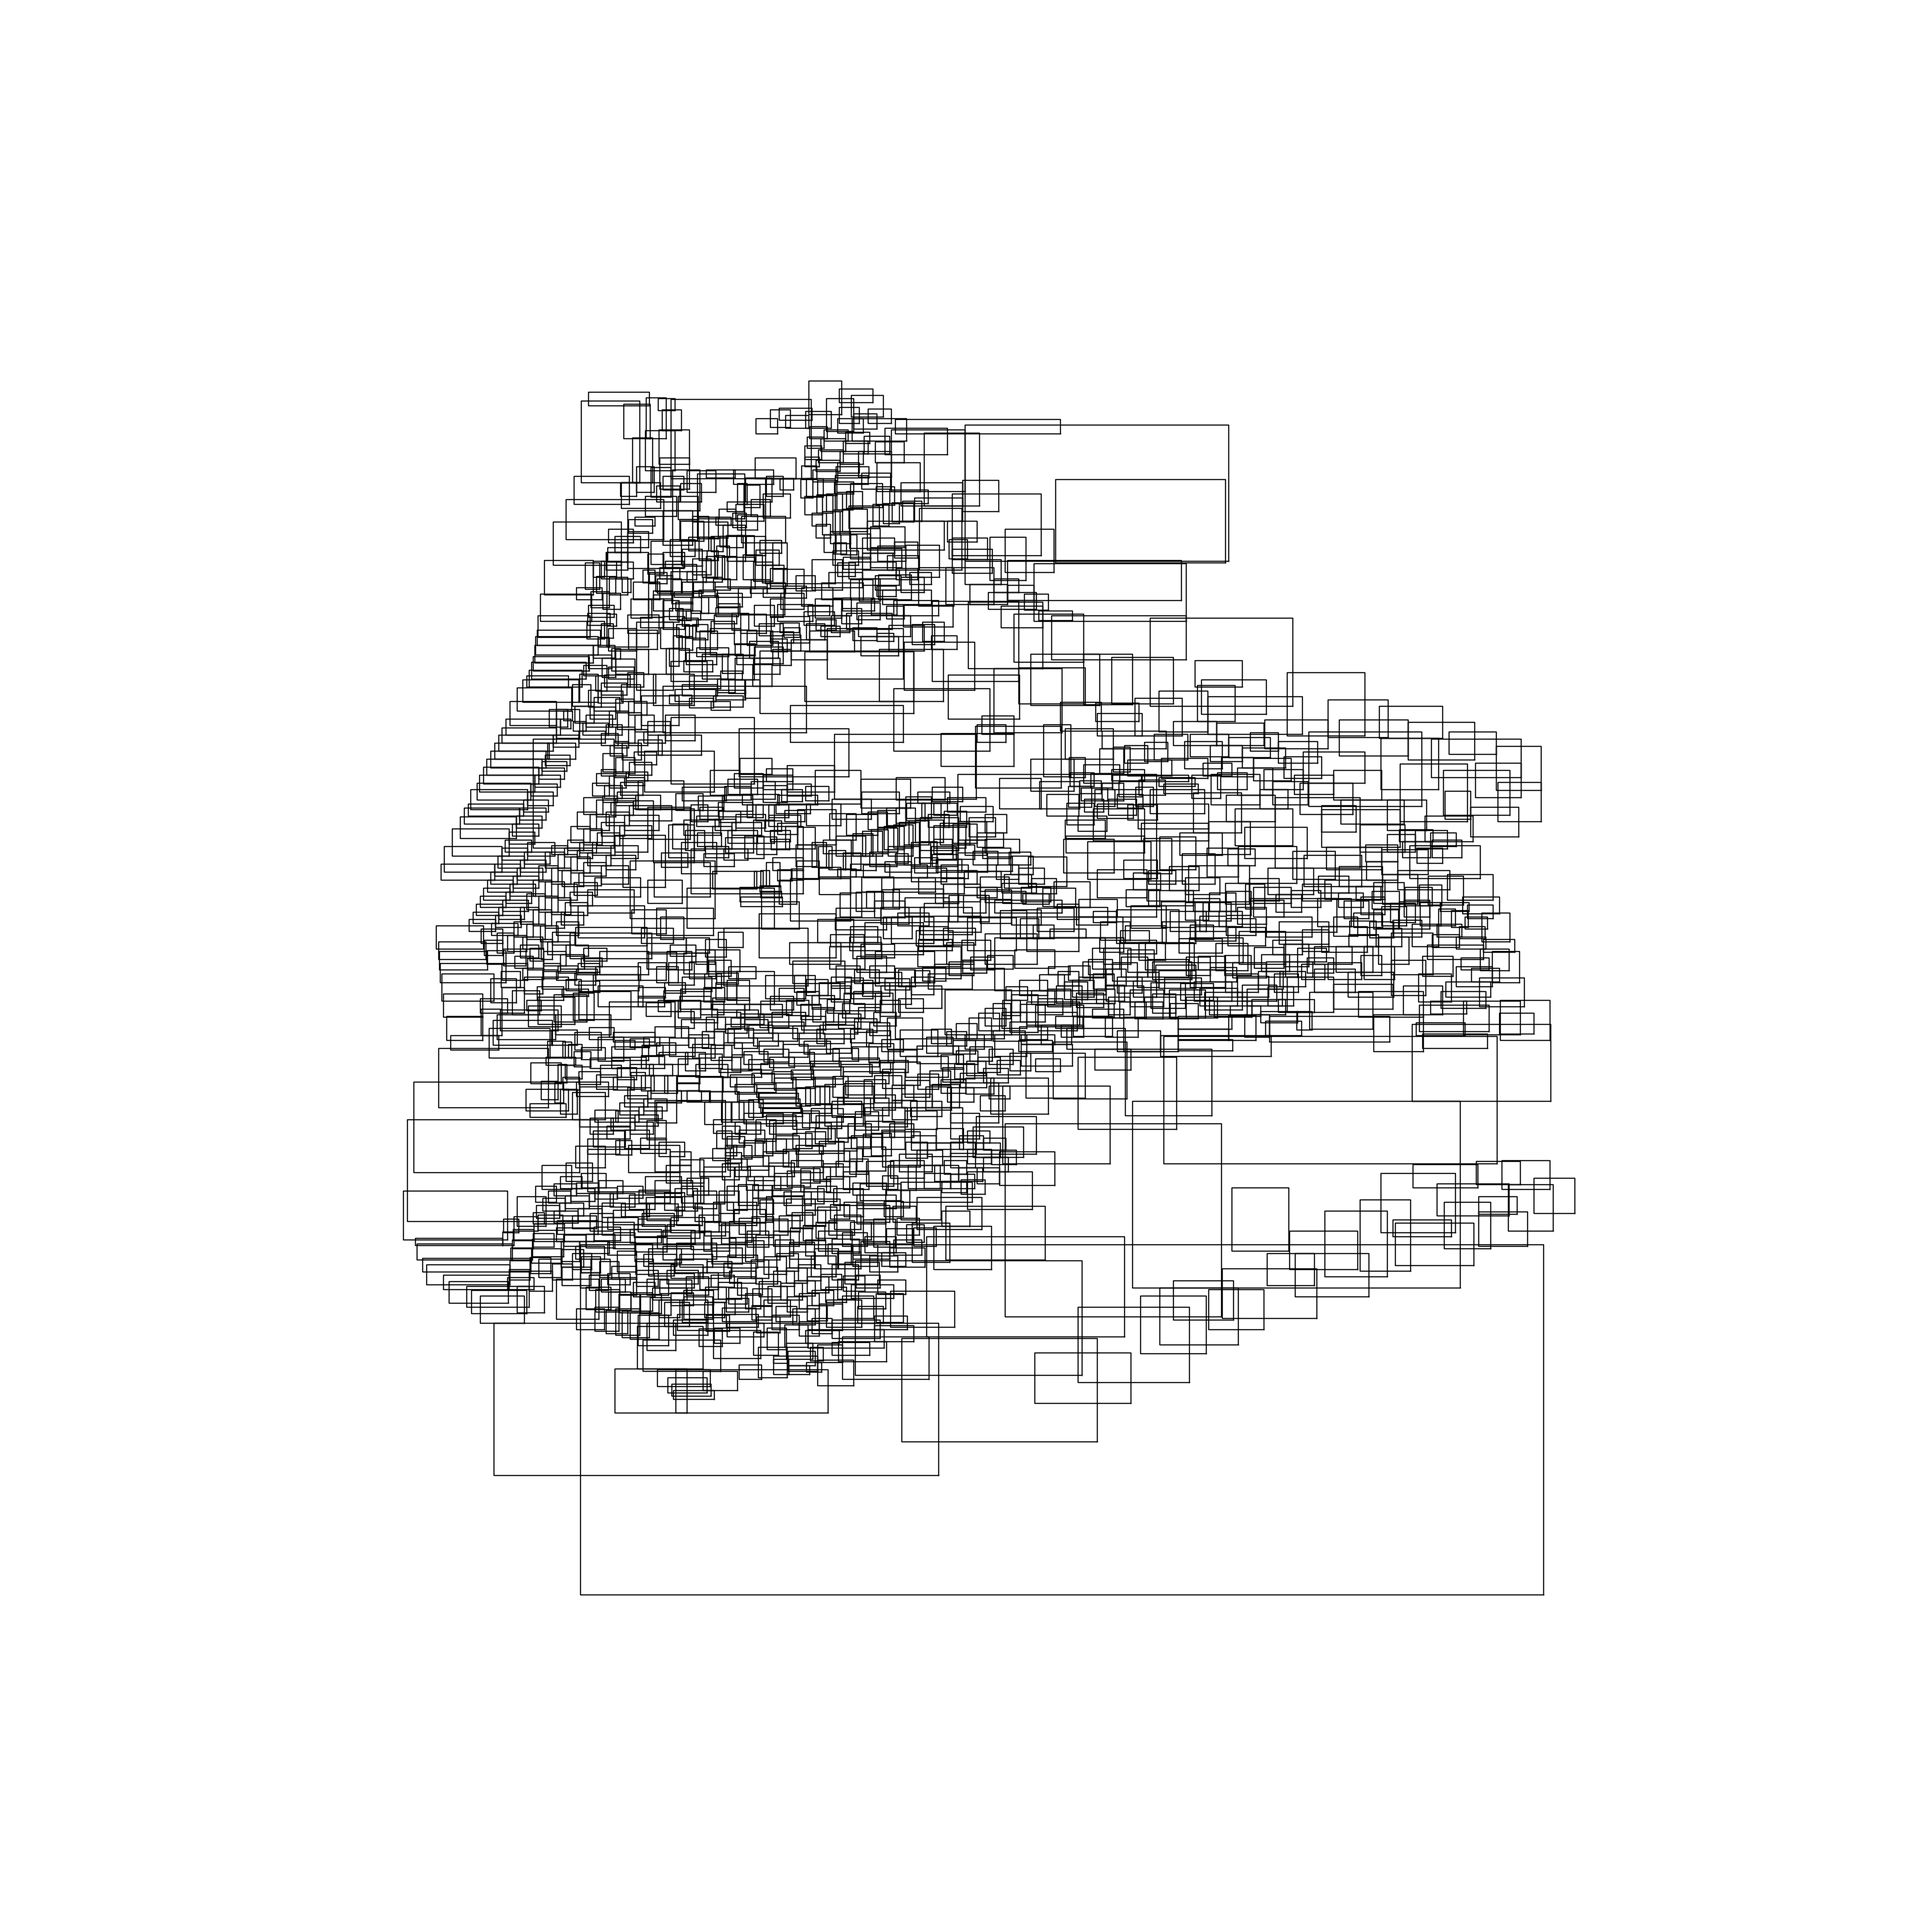
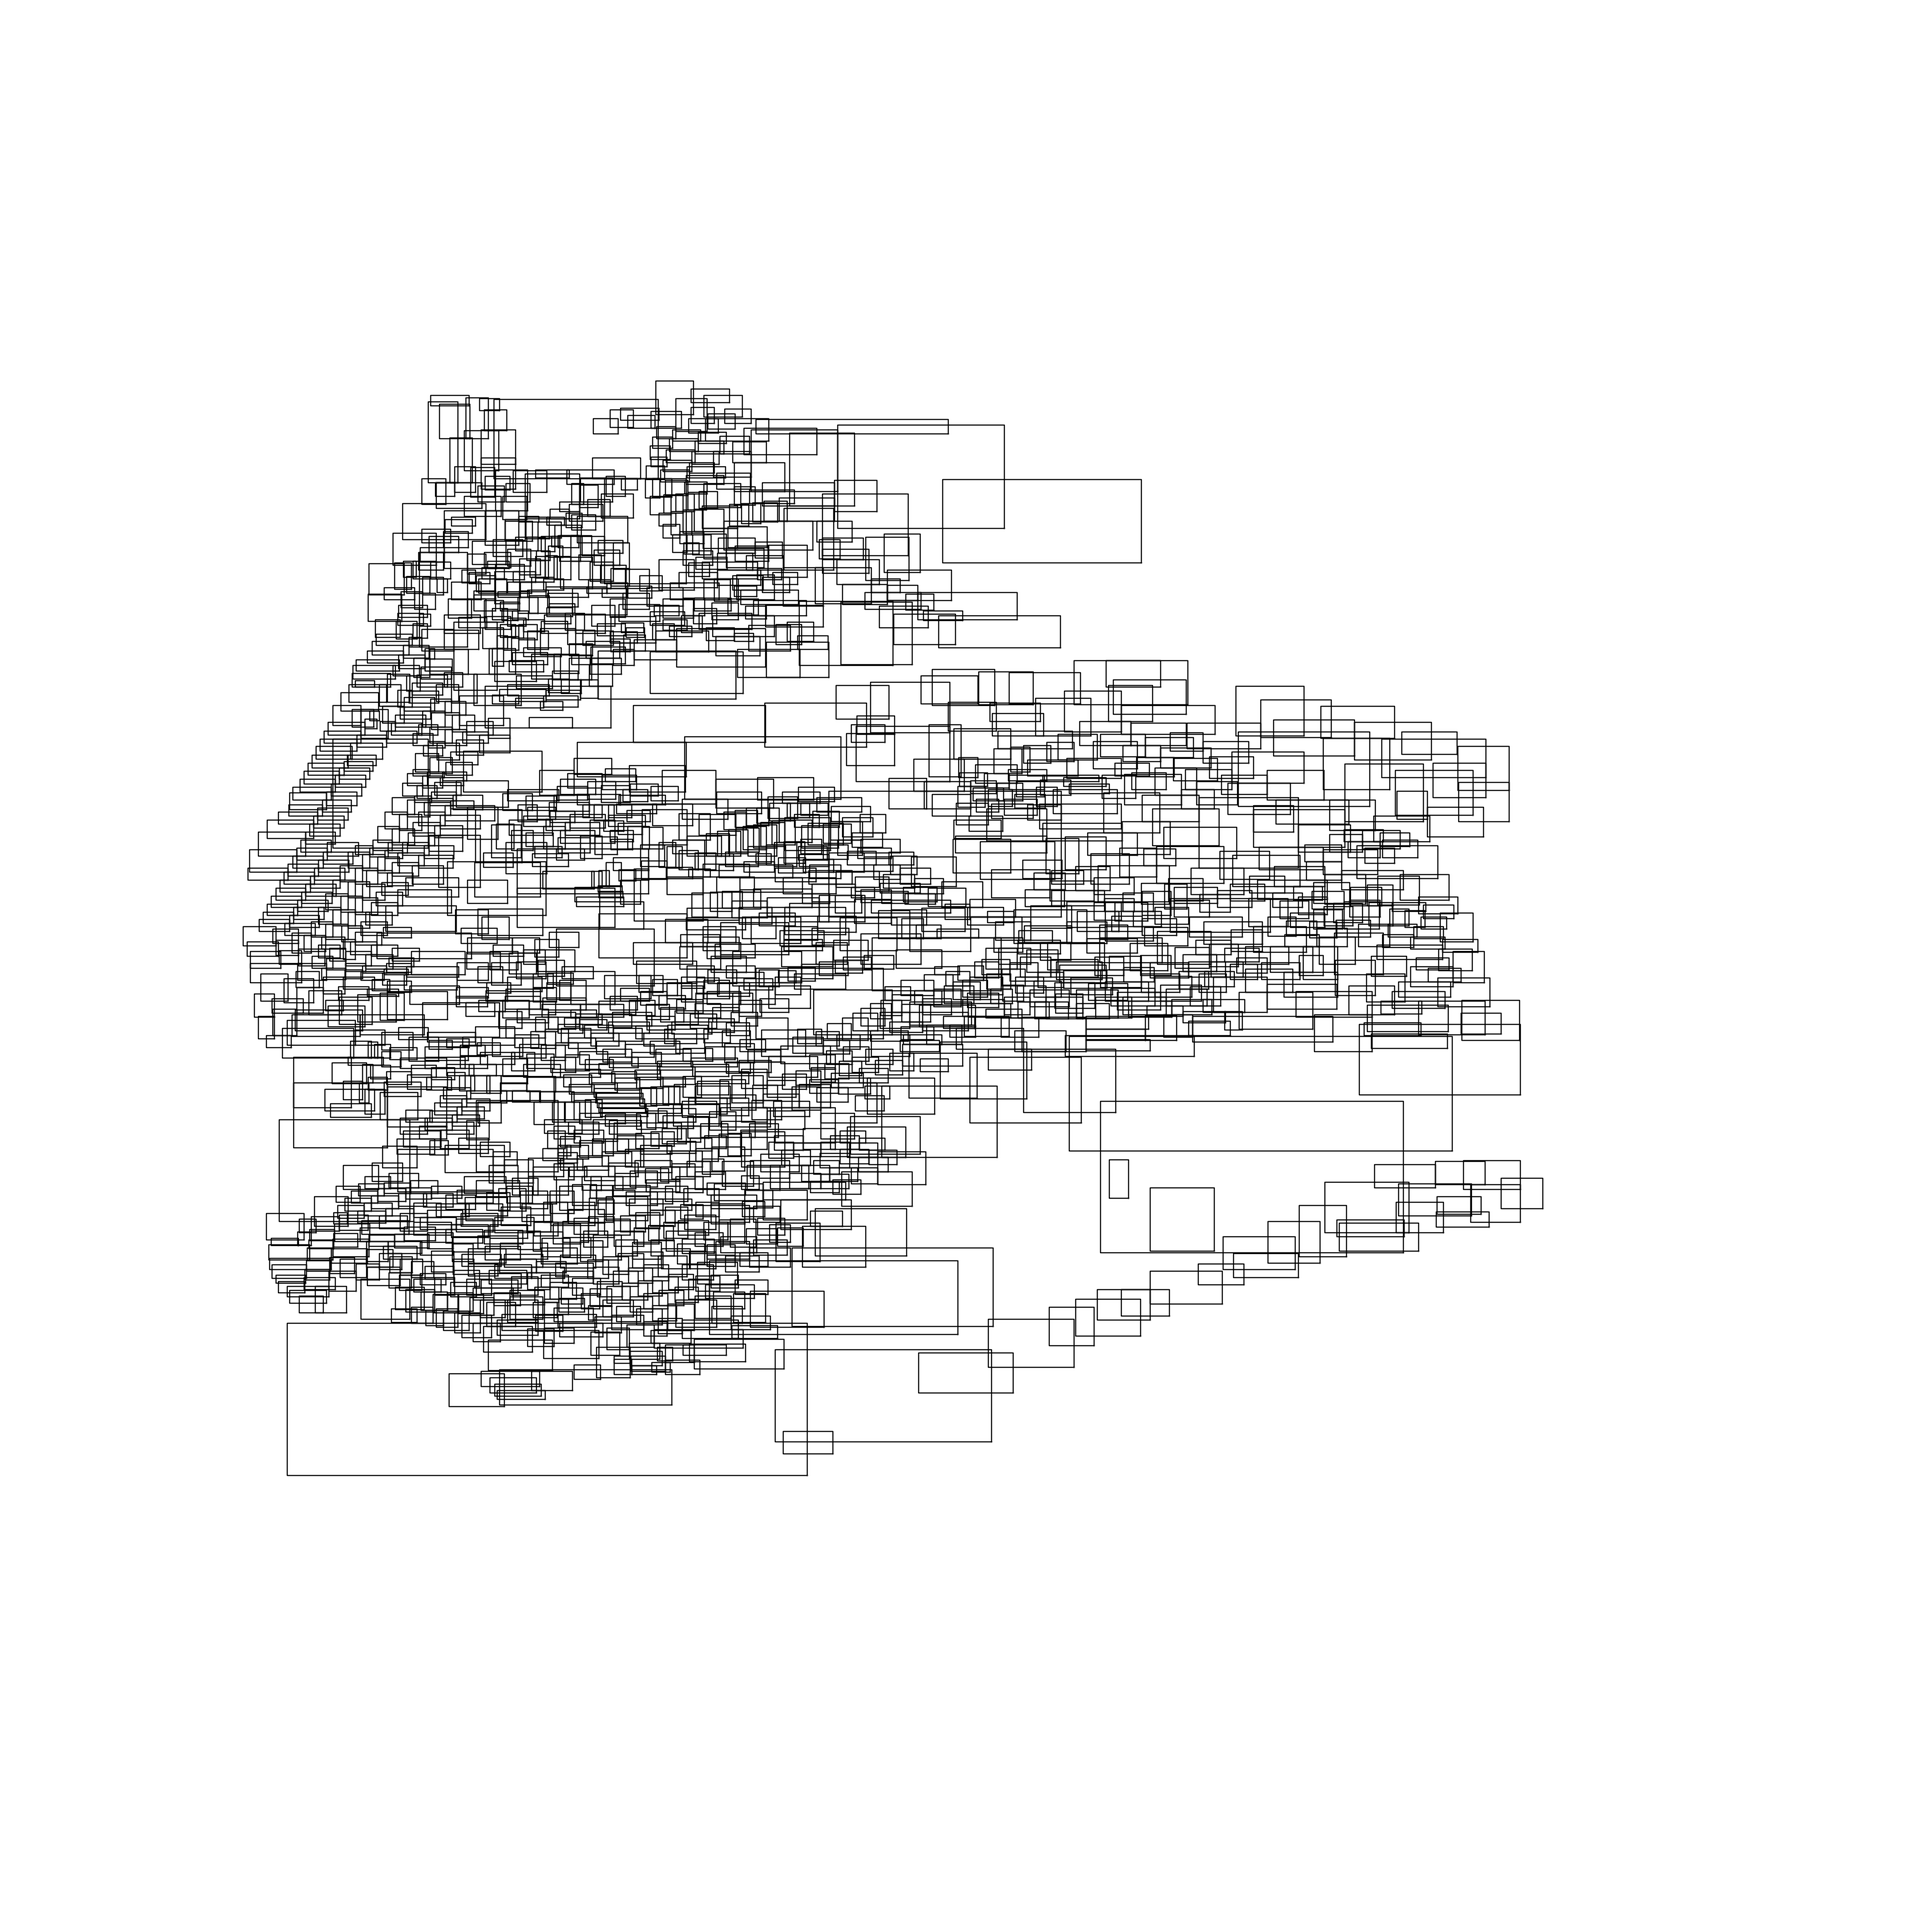
now have separate tracts for each population record, and shapes

Changed region(s): [[0.125, 0.1875, 0.8125, 0.7812]]

diff --git a/tracts.py b/tracts.py
@@ -1,5 +1,18 @@
 import pickle
+import matplotlib.pyplot as plt
 
 nyc = pickle.load(open('save/nyc.p','rb'))
-tracts = pickle.load(open('save/nyc.p','rb'))
+tracts = pickle.load(open('save/tracts.p','rb'))
 stops = pickle.load(open('save/stops.p','rb'))
+
+# plot
+for i in range(len(tracts)):
+    tract = tracts.iloc[i]
+    region = tract['region']
+    if region.type=='MultiPolygon':
+        for subshape in region:
+            x,y = subshape.exterior.xy
+            plt.plot(x,y,'k-')
+    else:
+        x,y = tract['region'].exterior.xy
+        plt.plot(x,y,'k-')
